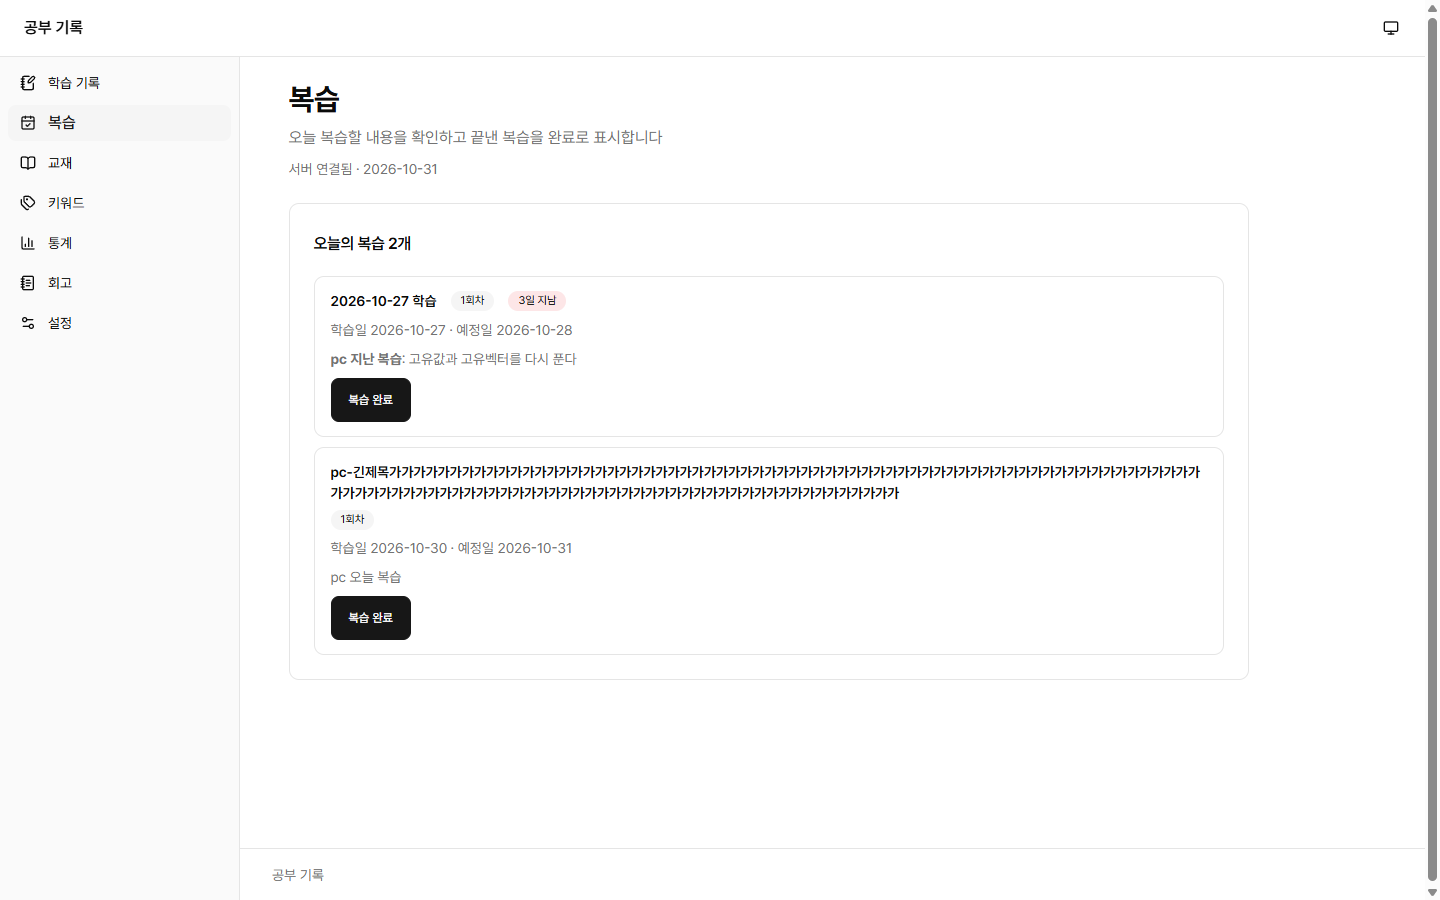
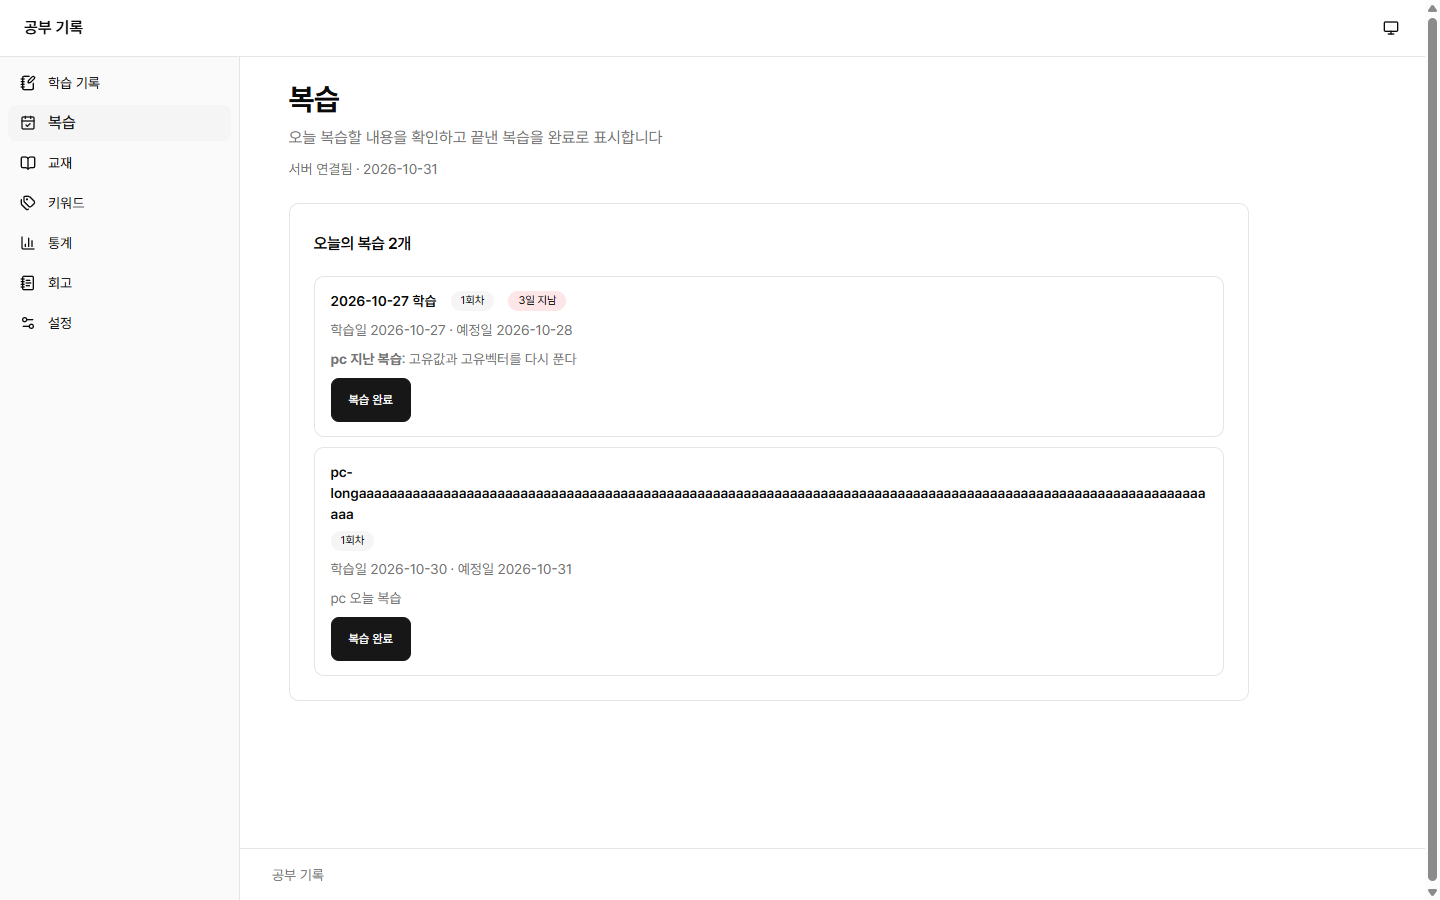
docs: 복습 화면 2차 리뷰와 긴 영문 제목 확인 기록 (#43)
- 왜: 한글 제목으로는 줄바꿈 수정의 효과를 확인할 수 없었음
- 변경: 영문 제목으로 다시 확인한 결과와 2차 리뷰 결과를 기록

Changed region(s): [[0.2188, 0.4978, 0.8438, 0.7467]]

diff --git a/docs/changes/43-today-reviews.md b/docs/changes/43-today-reviews.md
@@ -41,6 +41,8 @@
 - 잠금 대기, 2회차 보존, 프런트 실패 경로의 테스트를 더했다.
 - 5회차 완료는 #45 뒤에도 고칠 수 없다는 점을 적었다.
 
+2차 리뷰는 보완점이 없었다. 리뷰에서 긴 제목 확인이 한글이라 줄바꿈 수정의 효과를 보여 주지 못한다는 언급이 있어, 영문 제목으로 다시 확인했다.
+
 ## 검증
 
 `TEST_DATABASE_URL`을 설정한 `npm run check`가 통과했다. 백엔드 291건, 프런트 66건, 스킬 4건이 모두 통과했다(건너뜀 0). `npm run standards:check`도 통과했다.
@@ -52,7 +54,7 @@
 - 지난 회차에 "3일 지남"이 표시되고 목록에 남는다.
 - 완료하면 목록에서 빠지고, 오늘 + 2일의 다음 복습 날짜가 안내되며, 포커스가 제목으로 옮겨 간다.
 - 모두 완료하면 "오늘 복습할 내용이 없습니다"가 나온다.
-- 가로 스크롤이 없고, 모바일 버튼 높이는 44px이다. 공백 없는 120자 교재 제목도 카드 안에 머문다.
+- 가로 스크롤이 없고, 모바일 버튼 높이는 44px이다. 공백 없는 120자 영문 교재 제목도 카드 안에 머문다.
 - 메모의 Markdown이 굵은 글씨로 표시된다.
 
 ![PC](assets/43-pc-1440x900.png)
